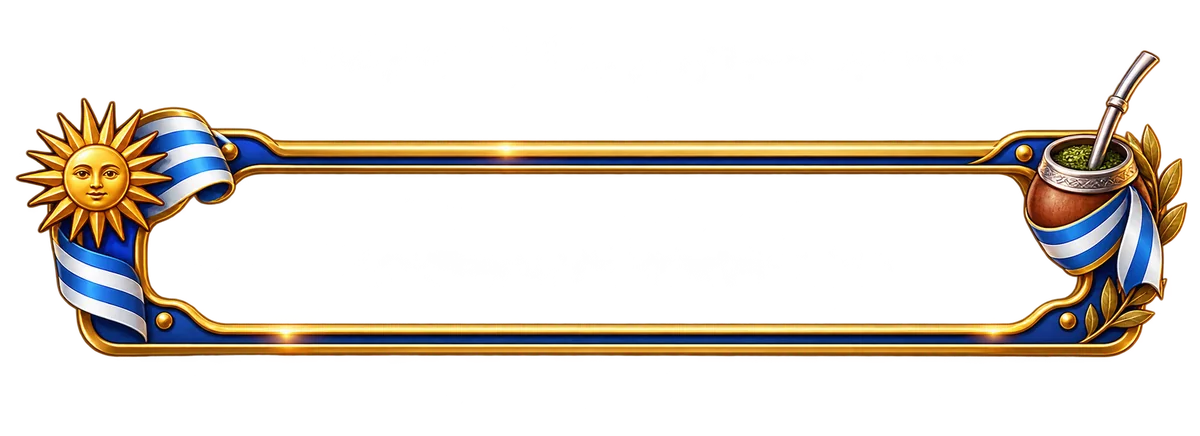
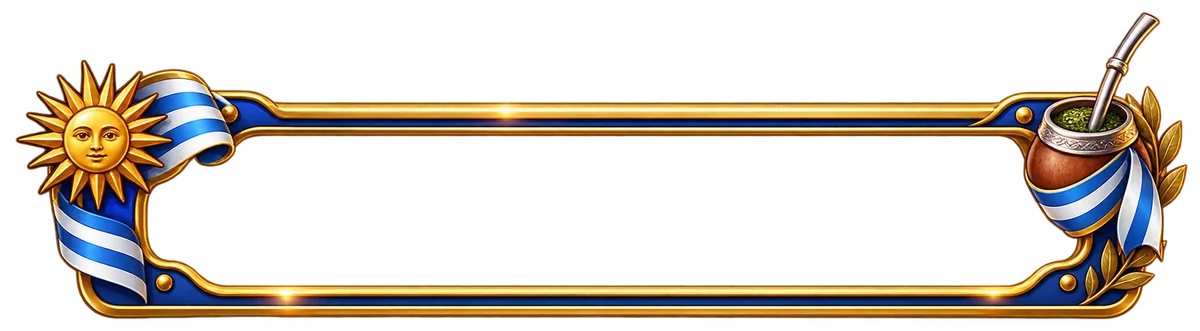
El marco de tablero ahora rodea todo el panel, sin importar los renglones (#104)
Antes el marco se aplicaba solo detrás del renglón de letras, duplicando
la imagen (ancla izquierda + derecha), lo que se veía mal cuando el
tablero era ancho: el mate quedaba repetido/pisado en el medio.

Ahora se aplica una sola vez sobre todo el panel del tablero (incluye
"Ronda X de Y · Categoría"), estirado 100%x100% para cubrir cualquier
cantidad de renglones. Además se recortaron las 6 imágenes al área
realmente dibujada (tenían mucho margen transparente arriba/abajo),
así el estiramiento ya no deja el riel del marco "flotando" en el medio
con la última fila de fichas afuera cuando la frase ocupa 2-3 renglones.

Claude-Session: https://claude.ai/code/session_016Hpyg3vebFKwHSnTQ2rALx

diff --git a/index.html b/index.html
@@ -481,9 +481,9 @@ p.sub{margin:14px 0 24px;color:#C9B8DE}
  font-size:1.1rem;font-weight:800;flex:0 0 auto;display:grid;place-items:center}
 .marco-selector span{flex:1;text-align:center;font-size:.82rem;font-weight:700;color:var(--crema);
  overflow:hidden;text-overflow:ellipsis;white-space:nowrap}
-.frase.con-marco{padding:34px 15%;min-height:96px;background-repeat:no-repeat,no-repeat;
- background-position:left center,right center;background-size:auto 100%,auto 100%}
-@media(max-width:480px){.frase.con-marco{padding:26px 12%}}
+.tablero.con-marco{background-color:transparent;background-repeat:no-repeat;background-size:100% 100%;
+ background-position:center;border:none;padding:34px 15%}
+@media(max-width:480px){.tablero.con-marco{padding:26px 11%}}
 .frase{display:flex;flex-wrap:wrap;justify-content:center;gap:14px}
 .palabra{display:flex;gap:5px}
 .ficha{width:clamp(24px,6.6vw,42px);height:clamp(34px,8.8vw,56px);border-radius:6px;background:#2A1A3C;
@@ -1108,7 +1108,7 @@ body.tvhost #juego .ficha{width:clamp(30px,4.5vw,52px);height:clamp(42px,6vw,66p
     <span id="marcoNombre">Sin marco</span>
     <button id="marcoNext" type="button" title="Marco siguiente">›</button>
   </div>
-  <div class="tablero"><div class="categoria" id="cat"></div><div class="frase" id="frase"></div></div>
+  <div class="tablero" id="tablero"><div class="categoria" id="cat"></div><div class="frase" id="frase"></div></div>
   <div class="zona">
     <div class="panel">
       <div class="aviso" id="aviso"></div>
@@ -3936,8 +3936,8 @@ function armarTeclado(){
     if(VOCALES.includes(l))b.classList.add("vocal");
     b.onclick=()=>accionLetra(l);$("teclado").appendChild(b);});
   $("marcoSelector").style.display="none";
-  $("frase").classList.remove("con-marco");
-  $("frase").style.backgroundImage="";
+  $("tablero").classList.remove("con-marco");
+  $("tablero").style.backgroundImage="";
 }
 
 /* ---- Marcos de tablero (en prueba): todavía no están en la Tienda,
@@ -3953,14 +3953,13 @@ const MARCOS_TABLERO=[
 ];
 let marcoTableroIdx=0;
 function aplicarMarcoTablero(){
-  const m=MARCOS_TABLERO[marcoTableroIdx],frase=$("frase");
+  const m=MARCOS_TABLERO[marcoTableroIdx],tablero=$("tablero");
   if(m.id){
-    const url="url('assets/tableros/"+m.id+".webp')";
-    frase.style.backgroundImage=url+", "+url;
-    frase.classList.add("con-marco");
+    tablero.style.backgroundImage="url('assets/tableros/"+m.id+".webp')";
+    tablero.classList.add("con-marco");
   }else{
-    frase.style.backgroundImage="";
-    frase.classList.remove("con-marco");
+    tablero.style.backgroundImage="";
+    tablero.classList.remove("con-marco");
   }
   $("marcoNombre").textContent=m.nombre;
 }
